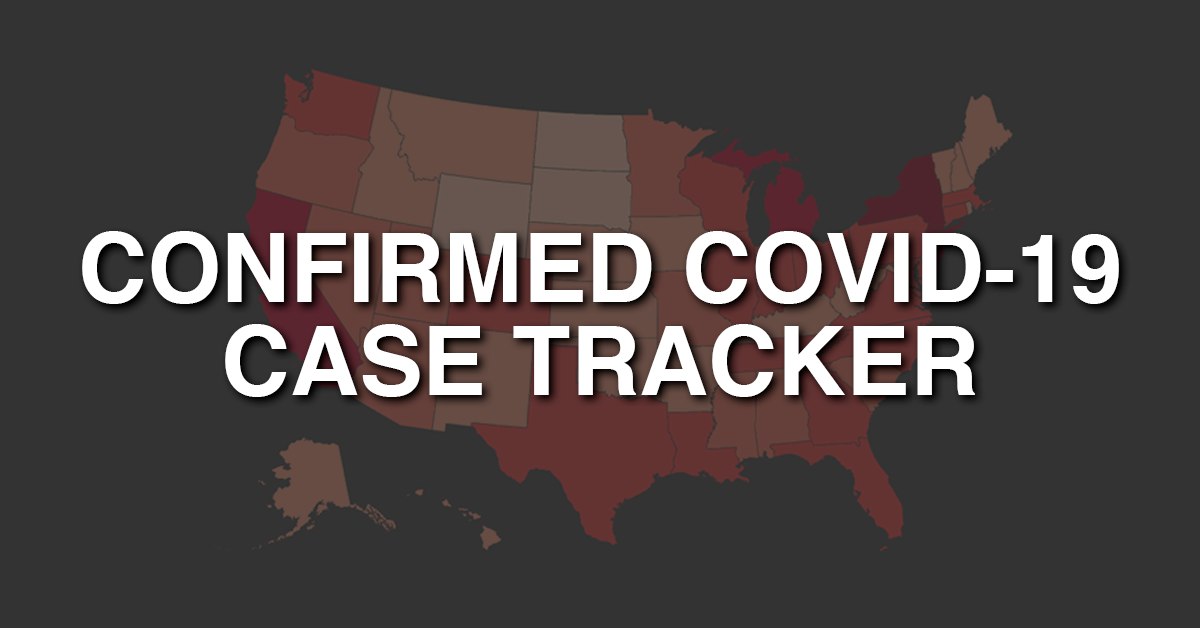
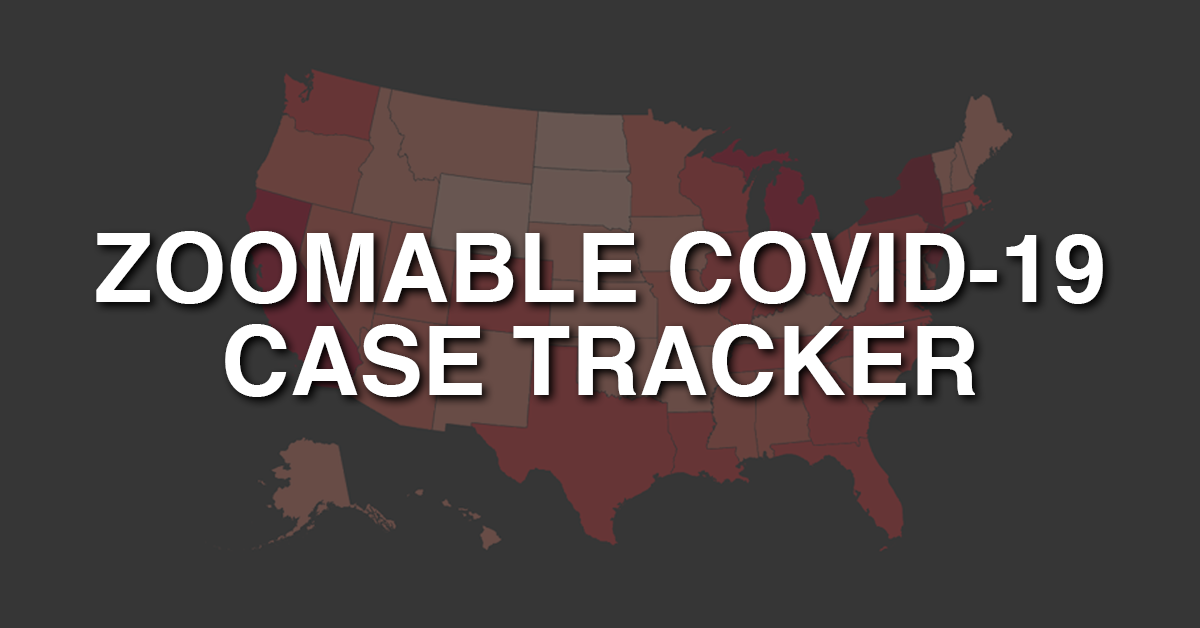
Slight name update and added display of total number of cases

Changed region(s): [[0.0617, 0.3631, 0.9558, 0.5143]]

diff --git a/docs/index.html b/docs/index.html
@@ -2,19 +2,19 @@
 <html lang="en">
 <head>
     <meta charset="utf-8">
-    <title>Confirmed COVID-19 Case Tracker</title>
-    <meta name="description" content="Zoomable COVID-19 case tracker map for the United States with county-level detail.">
+    <title>Zoomable COVID-19 Tracker</title>
+    <meta name="description" content="Zoomable COVID-19 map for the United States with county-level detail.">
     <meta name="keywords" content="COVID-19, Coronavirus, SARS-CoV-2, D3, D3.js, Map, Interactive, United States, Cases, Outbreak, Pandemic">
     <meta name="author" content="Colin Sullender">
 
     <meta name="twitter:card" content="summary_large_image">
     <meta name="twitter:creator" content="@shiruken">
-    <meta name="twitter:title" content="Confirmed COVID-19 Case Tracker">
-    <meta name="twitter:description" content="Zoomable COVID-19 case tracker map for the United States with county-level detail.">
+    <meta name="twitter:title" content="Zoomable COVID-19 Tracker">
+    <meta name="twitter:description" content="Zoomable COVID-19 map for the United States with county-level detail.">
     <meta name="twitter:image" content="https://covid.csullender.com/social.png">
     
-    <meta property="og:title" content="Confirmed COVID-19 Case Tracker">
-    <meta property="og:description" content="Zoomable COVID-19 case tracker map for the United States with county-level detail.">
+    <meta property="og:title" content="Zoomable COVID-19 Tracker">
+    <meta property="og:description" content="Zoomable COVID-19 map for the United States with county-level detail.">
     <meta property="og:image" content="https://covid.csullender.com/social.png">
     <meta property="og:image:width" content="1200">
     <meta property="og:image:height" content="628">
@@ -121,7 +121,7 @@
 </head>
 <body>
     <header>
-        <h1 id="title">Confirmed COVID-19 Case Tracker</h1>
+        <h1 id="title">Zoomable COVID-19 Tracker</h1>
         <h2 id="subtitle"></h2>
     </header>
     <div id="map"></div>
@@ -184,9 +184,13 @@
             cases[+d.FIPS] = +d.cases;
         });
 
+        var totalCases = 0;
         states.forEach(function (d) {
             d.cases = cases[+d.id] || 0;
+            totalCases += cases[+d.id];
         });
+
+        d3.select("#title").text(d3.select("#title").text() + " (" + totalCases.toLocaleString() + " cases)");
 
         counties.forEach(function (d) {
             d.cases = cases[+d.id] || 0;
